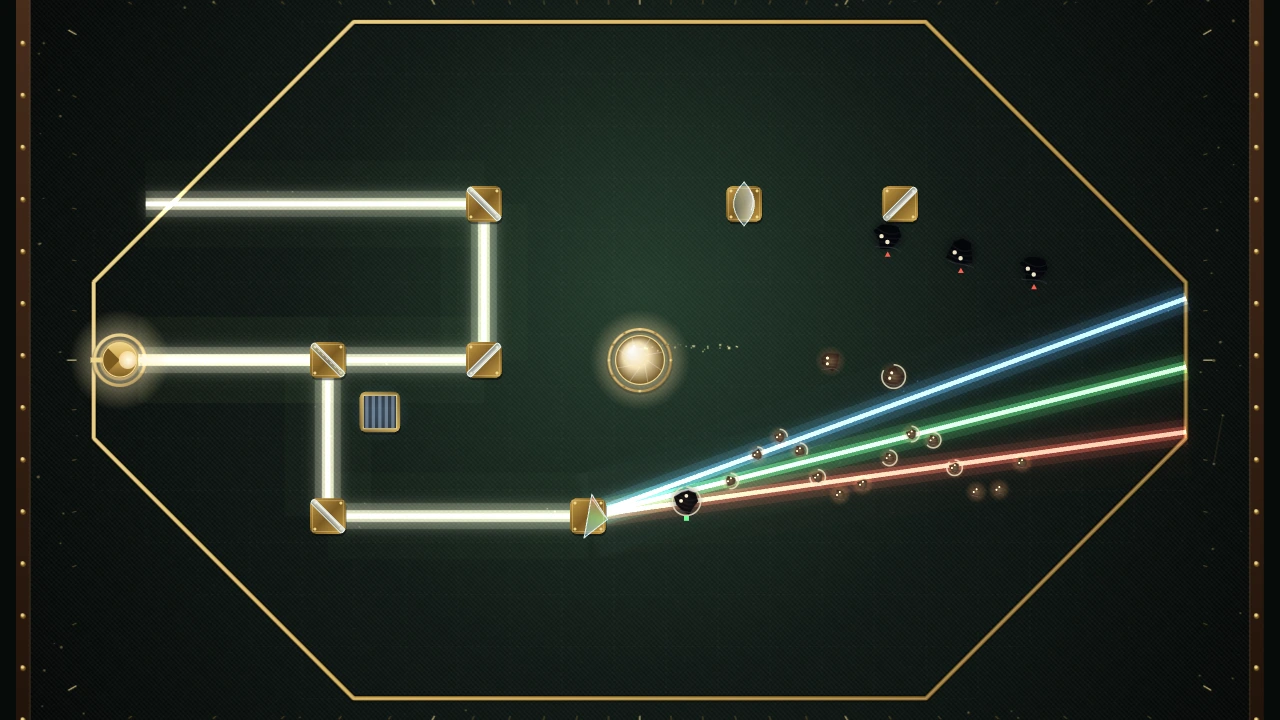
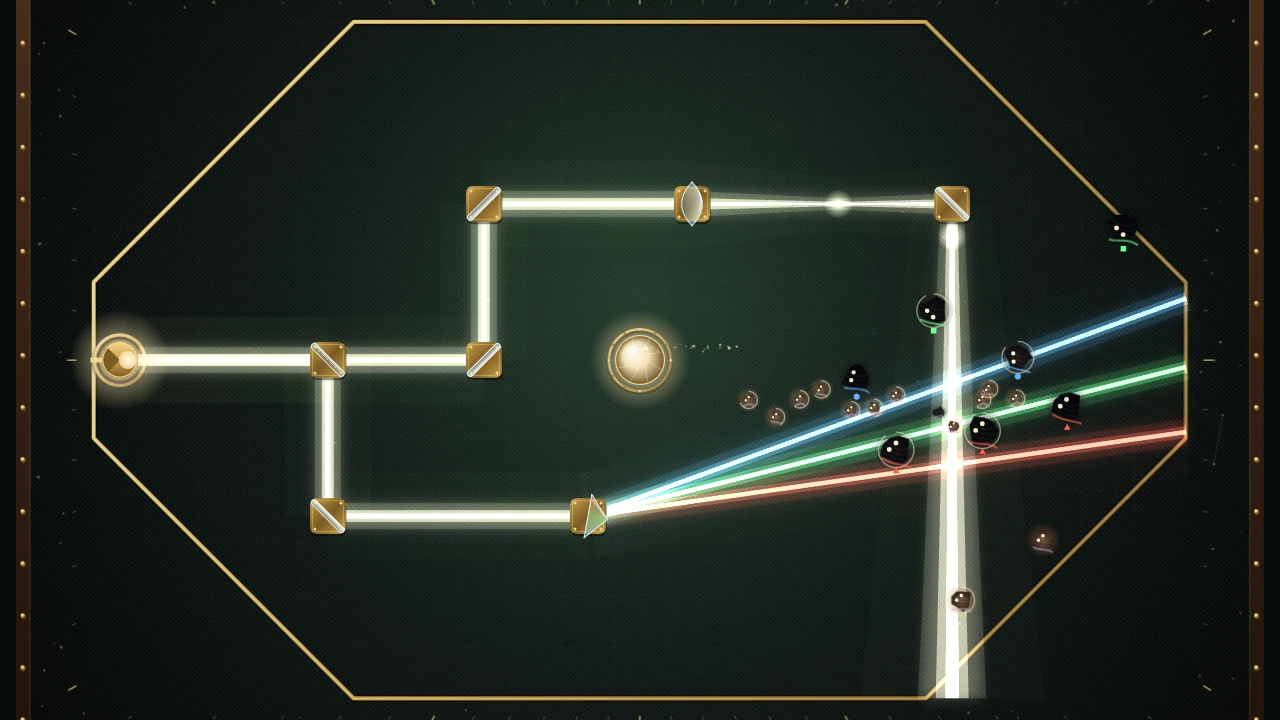
Mend the cover's machine and recapture the store art
The cover's mirror turned the north beam off the table, leaving its lens and
last mirror dark; it now runs the north through the lens and down the east
side, with ink in every colour of the fan. Health arcs show only after real
harm, and fainter, so a crowd is not a field of rings.

diff --git a/game/poster.js b/game/poster.js
@@ -29,21 +29,26 @@ const spawn = (N, type, hue, x, y, hp = 1) => {
 
 const SCENES = {
   thumb1(N) {
-    // A finished machine: the lamp through a splitter and a prism fan onto a swarm coming from the east.
+    // A finished machine: the Lamp splits; one half fans into colour across the ink coming from the east, the
+    // other runs the north through a lens and turns down the east side in a wide wash.
     place(N, 'splitter', 4, 6, 45);
     place(N, 'mirror', 4, 9, 45);
     place(N, 'prism', 9, 9, 100);
     place(N, 'mirror', 7, 6, 135);
-    place(N, 'mirror', 7, 3, 45);
-    place(N, 'lens', 12, 3, 90);
-    place(N, 'mirror', 15, 3, 135);
-    place(N, 'heatsink', 5, 7, 0);
+    place(N, 'mirror', 7, 3, 135);
+    place(N, 'lens', 11, 3, 90);
+    place(N, 'mirror', 16, 3, 45);
     N.command('p', { op: 'lamp', i: 0, angle: 0 });
-    for (let i = 0; i < 14; i++) spawn(N, 'gnat', 'r', 1200 - i * 28, 600 + Math.sin(i) * 40, 1);
-    for (let i = 0; i < 3; i++) spawn(N, 'creeper', 'r', 1000 + i * 90, 240 + i * 20);
-    spawn(N, 'veil', 'g', 760, 620);
-    spawn(N, 'wisp', 'w', 980, 420);
-    spawn(N, 'wisp', 'w', 1040, 470);
+    // Along the fan: red Creepers in the red, a blue Veil in the blue, a swarm of gnats in the green.
+    for (let i = 0; i < 3; i++) spawn(N, 'creeper', 'r', 1010 + i * 105, 545 - i * 25);
+    spawn(N, 'veil', 'b', 980, 455);
+    spawn(N, 'veil', 'b', 1180, 410);
+    for (let i = 0; i < 12; i++) spawn(N, 'gnat', 'g', 860 + i * 30, 520 + Math.sin(i * 1.7) * 18, 1);
+    // Wading through the wash on the east side.
+    spawn(N, 'twain', 'g', 1060, 330);
+    spawn(N, 'wisp', 'w', 1110, 760);
+    spawn(N, 'wisp', 'w', 1220, 690);
+    spawn(N, 'creeper', 'g', 1290, 230);
   },
   thumb2(N) {
     // The focus burn: the prism's red leaves through a filter and a lens, to a burning point on a Veil.

diff --git a/game/render/shades.js b/game/render/shades.js
@@ -186,12 +186,14 @@ export function makeShadeRenderer() {
           ctx.fill();
           ctx.globalCompositeOperation = 'source-over';
         }
-        // Health, only once hurt: a thin bone arc.
-        if (s.hp < s.maxHp - 0.5) {
-          ctx.strokeStyle = 'rgba(239,230,200,0.8)';
-          ctx.lineWidth = 2;
+        // Health, once it has really been hurt: a thin bone arc of what is left, faint, so a crowd does not
+        // become a field of rings.
+        const left = clamp(s.hp / s.maxHp, 0, 1);
+        if (left < 0.94) {
+          ctx.strokeStyle = 'rgba(239,230,200,0.55)';
+          ctx.lineWidth = 1.5;
           ctx.beginPath();
-          ctx.arc(0, 0, r + 3.5, -Math.PI / 2, -Math.PI / 2 + Math.PI * 2 * clamp(s.hp / s.maxHp, 0, 1));
+          ctx.arc(0, 0, r + 3.5, -Math.PI / 2, -Math.PI / 2 + Math.PI * 2 * left);
           ctx.stroke();
         }
       }
